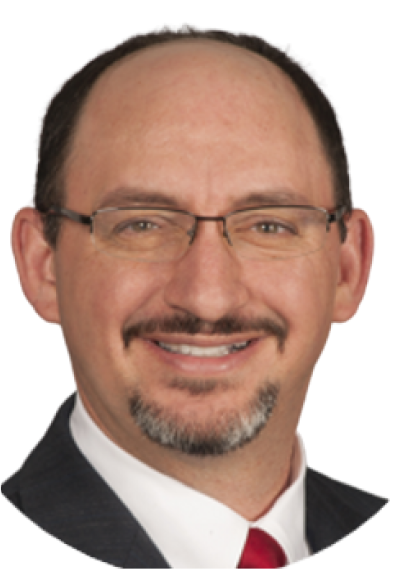
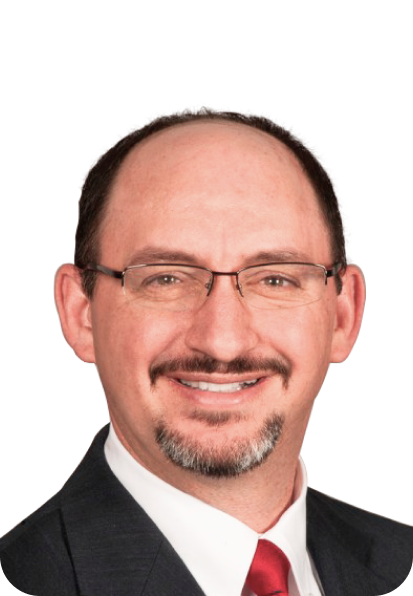
HOMEPAGE - Our Leaders division

diff --git a/src/components/TeamBigThumbnail/TeamBigThumbnail.vue b/src/components/TeamBigThumbnail/TeamBigThumbnail.vue
@@ -19,7 +19,7 @@
               Linkedin.svg-icon(v-show="link.name === 'linkedin'")
               Facebook.svg-icon(v-show="link.name === 'facebook'")
       p.desc(v-html="description")
-      .thumbnail-social
+      .thumbnail-social(v-if="social")
         a(
           v-for="link in social"
           :href="link.path"
@@ -66,9 +66,10 @@ export default {
   border-radius: 5px
   padding: 25px
   +mt(.3s)
+  background: rgba(0, 0, 0, 0.08)
   @media screen and (max-width: 767px)
     padding: 18px
-    height: 150px
+    height: 184px
     overflow: hidden
     &.active
       height: auto
@@ -79,16 +80,17 @@ export default {
     width: 100%
     max-width: 395px
     flex-shrink: 0
-    background: linear-gradient(180deg, #4FBDCE 0%, #018CC8 100%)
+    // background: rgba(255,255,255, 0.08)
     margin-right: 45px
-    border-radius: 5px
+    border-radius: 40px
     @media screen and (max-width: 767px)
       display: none
     .image
       width: 100%
       height: 100%
-      background-size: contain
+      background-size: 100%
       background-position: center
+      border-radius: 40px
   &-description
     display: flex
     flex-direction: column
@@ -103,18 +105,18 @@ export default {
         &:last-child
           margin-bottom: 0
     .thumbnail-mobile-image
-      background: linear-gradient(180deg, #4FBDCE 0%, #018CC8 100%)
+      // background: linear-gradient(180deg, #4FBDCE 0%, #018CC8 100%)
       width: 100px
-      height: 115px
+      height: 152px
       margin-right: 10px
-      border-radius: 5px
+      // border-radius: 5px
       @media screen and (min-width: 768px)
         display: none
       .image
         width: 100%
         height: 100%
-        background-size: contain
-        background-position: left center
+        background-size: 100%
+        background-position: center
     .wrap
       display: flex
       flex-direction: row
@@ -147,6 +149,7 @@ export default {
     padding: 5px
     flex-direction: row
     justify-content: center
+    margin-top: 30px
     @media screen and (max-width: 767px)
       display: none
     .link

diff --git a/src/pages/PageTeam.vue b/src/pages/PageTeam.vue
@@ -261,6 +261,20 @@ export default {
               overflow: visible
               height: 100%
               margin-top: 20px
+      &:nth-child(2)
+        .thumbnail-image
+          background-color: rgba(255, 255, 255, 0.08)
+          border-radius: 40px
+          .image
+            background-size: contain
+            background-position: right bottom
+        @media screen and (max-width: 767px)
+          .thumbnail-mobile-image
+            background-color: rgba(255, 255, 255, 0.08)
+            border-radius: 10px
+            .image
+              background-size: contain
+              background-position: right bottom
   .advisors-title
     margin-top: 130px
     @media screen and (max-width: 767px)
